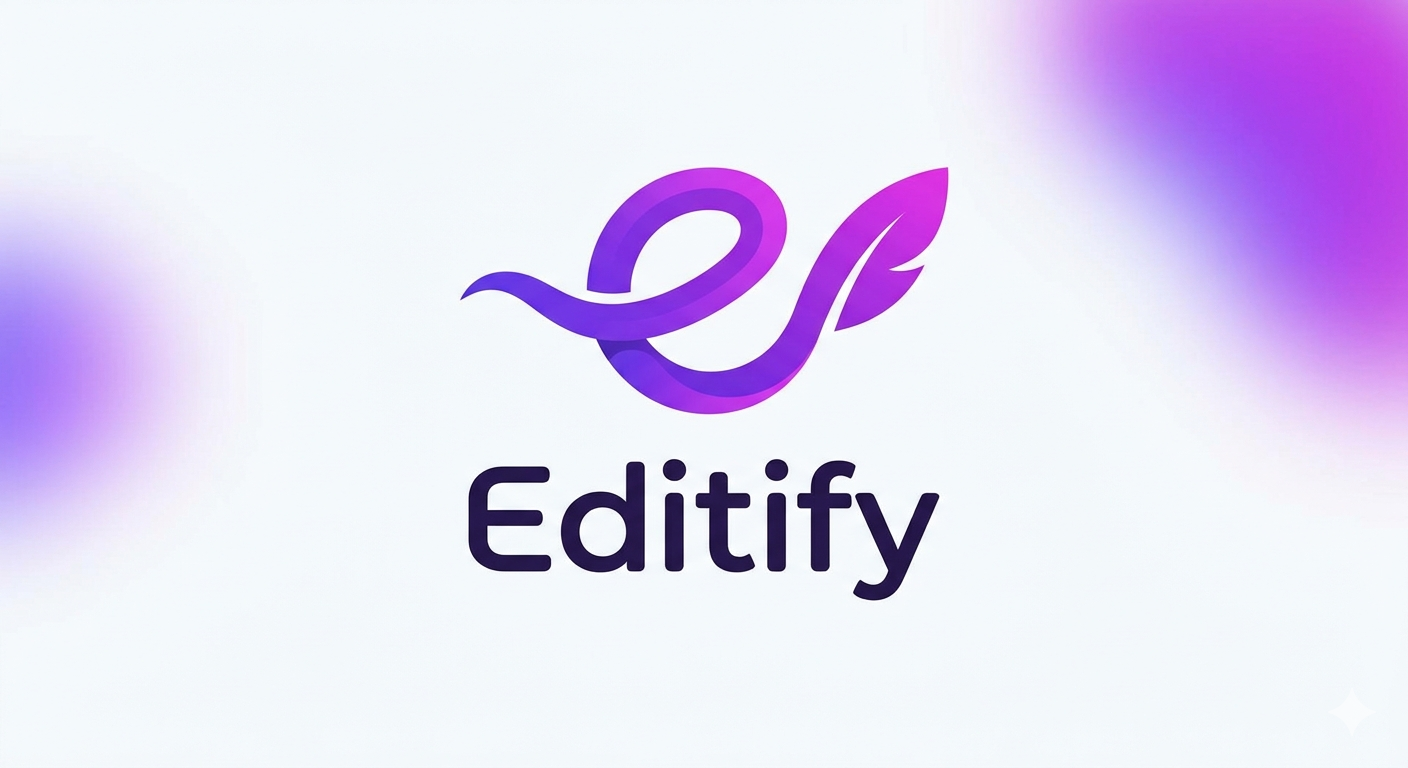
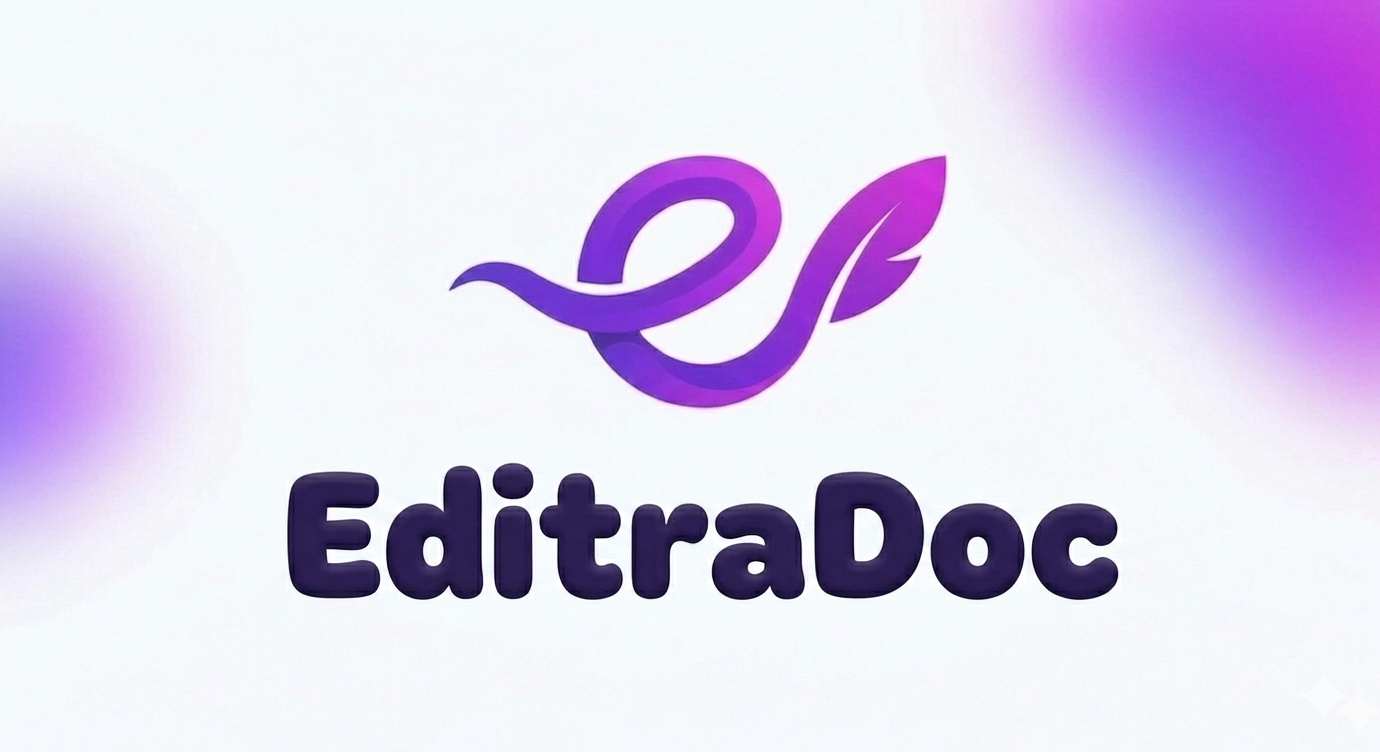
changement de nom + simplification readme

diff --git a/app/src/main/main.js b/app/src/main/main.js
@@ -53,9 +53,63 @@ function getPythonLaunchConfig() {
 const sessionStatePath = path.join(app.getPath("userData"), "session-state.json");
 const sensitiveLogPath = path.join(app.getPath("userData"), "sensitive-actions.json");
 const jobsStatePath = path.join(app.getPath("userData"), "jobs-state.json");
+const recentPdfsPath = path.join(app.getPath("userData"), "recent-pdfs.json");
 const jobs = [];
 let activeJobId = null;
 let sensitiveActions = [];
+/** @type {string[]} */
+let recentPdfs = [];
+
+function loadRecentPdfs() {
+  try {
+    if (!fs.existsSync(recentPdfsPath)) {
+      recentPdfs = [];
+      return;
+    }
+    const parsed = JSON.parse(fs.readFileSync(recentPdfsPath, "utf8"));
+    recentPdfs = Array.isArray(parsed) ? parsed.map((x) => String(x || "")).filter(Boolean) : [];
+  } catch {
+    recentPdfs = [];
+  }
+}
+
+function persistRecentPdfs() {
+  try {
+    fs.writeFileSync(recentPdfsPath, JSON.stringify(recentPdfs, null, 2), "utf8");
+  } catch {
+    /* ignore */
+  }
+}
+
+function addRecentPdf(pdfPath) {
+  try {
+    const p = String(pdfPath || "").trim();
+    if (!p) return;
+    // Dedupe (case-insensitive sur Windows), cap à 20.
+    const lower = process.platform === "win32" ? p.toLowerCase() : p;
+    recentPdfs = recentPdfs.filter((x) => {
+      const xl = process.platform === "win32" ? String(x).toLowerCase() : String(x);
+      return xl !== lower;
+    });
+    recentPdfs.unshift(p);
+    recentPdfs = recentPdfs.slice(0, 20);
+    persistRecentPdfs();
+    try {
+      // Bonus Windows: alimente aussi la liste de documents récents OS.
+      app.addRecentDocument(p);
+    } catch {
+      /* ignore */
+    }
+    // Rafraîchir le menu pour afficher la nouvelle liste.
+    try {
+      createMenu();
+    } catch {
+      /* ignore */
+    }
+  } catch {
+    /* ignore */
+  }
+}
 
 function loadSensitiveLog() {
   try {
@@ -262,6 +316,43 @@ function normalizeSpellcheckLanguage(lang) {
 }
 
 function createMenu() {
+  const recentSubmenu =
+    recentPdfs.length > 0
+      ? [
+          ...recentPdfs.map((p, idx) => ({
+            label: `${idx + 1}. ${p}`,
+            click: () => {
+              try {
+                if (!mainWindow) return;
+                if (!fs.existsSync(p)) {
+                  // Nettoyage best-effort des chemins disparus.
+                  recentPdfs = recentPdfs.filter((x) => x !== p);
+                  persistRecentPdfs();
+                  createMenu();
+                  return;
+                }
+                mainWindow.webContents.send("pdf:open-from-menu", p);
+              } catch {
+                /* ignore */
+              }
+            }
+          })),
+          { type: "separator" },
+          {
+            label: "Effacer la liste",
+            click: () => {
+              recentPdfs = [];
+              persistRecentPdfs();
+              try {
+                createMenu();
+              } catch {
+                /* ignore */
+              }
+            }
+          }
+        ]
+      : [{ label: "(Aucun fichier récent)", enabled: false }];
+
   const template = [
     {
       label: "Fichier",
@@ -278,6 +369,10 @@ function createMenu() {
               mainWindow.webContents.send("pdf:open-from-menu", result.filePaths[0]);
             }
           }
+        },
+        {
+          label: "Fichiers récents",
+          submenu: recentSubmenu
         },
         {
           label: "Enregistrer sous…",
@@ -580,6 +675,7 @@ ipcMain.handle("pdf:open", async (_, pdfPath) => {
     if (!validation.ok) {
       return validation;
     }
+    addRecentPdf(pdfPath);
     return { ok: true, path: pdfPath };
   } catch (error) {
     return { ok: false, error: `Impossible d'ouvrir le PDF: ${error.message}` };
@@ -875,6 +971,7 @@ ipcMain.handle("spellcheck:is-custom-word", async (_, payload) => {
 app.whenReady().then(() => {
   loadSensitiveLog();
   loadJobs();
+  loadRecentPdfs();
   createWindow();
   createMenu();
   startAutosave();

diff --git a/app/e2e/app.smoke.spec.js b/app/e2e/app.smoke.spec.js
@@ -60,7 +60,10 @@ async function openPdfFromUi(app, page) {
   await page.waitForFunction(
     () =>
       Array.isArray(window.__maniStatusHistory) &&
-      window.__maniStatusHistory.some((m) => String(m || "").startsWith("Rendu pages")),
+      window.__maniStatusHistory.some((m) => {
+        const s = String(m || "");
+        return /^(Rendu pages|Rendering pages|Renderizando paginas|A renderizar paginas)/i.test(s);
+      }),
     null,
     { timeout: 30000 }
   );

diff --git a/README.md b/README.md
@@ -1,6 +1,37 @@
-# EditraDoc
+# 🚀 EditraDoc
 
-Application de bureau **local-first** pour manipuler des fichiers PDF **sans jamais les envoyer sur un service externe**.
+## Installation (Windows — 30 secondes)
+
+👉 Télécharger l’application :
+https://github.com/Matth031/EditraDoc/releases/latest/download/EditraDoc-Setup.exe
+
+Puis :
+
+* Double-cliquer sur le fichier téléchargé
+* Suivre les étapes d’installation
+
+✅ Aucun prérequis technique
+✅ Pas besoin d’installer Node.js ou Python
+
+---
+
+## Ce que fait EditraDoc
+
+- Ouvrir un PDF et naviguer page par page
+- Ajouter du texte, des formes et des images
+- Enregistrer une nouvelle version du PDF
+- Fusionner, diviser, compresser, protéger/déprotéger (outils PDF intégrés)
+
+## Confidentialité (en pratique)
+
+- Les fichiers sont traités sur la machine.
+- L’application n’impose pas l’envoi du document vers un service en ligne.
+
+Pour les détails techniques, la sécurité, les tests et l’architecture: voir la section développeur ci-dessous.
+
+---
+
+## 🛠 Documentation développeur (utilisateurs avancés uniquement)
 
 ---
 
@@ -246,7 +277,6 @@ Les autres plateformes (`npm run dist` : AppImage, dmg, etc.) s’appuient pour 
 | Bundle Python Windows seul | `app/` | `npm run bundle:python-win` |
 
 ---
-
 
 ## Contribution
 
